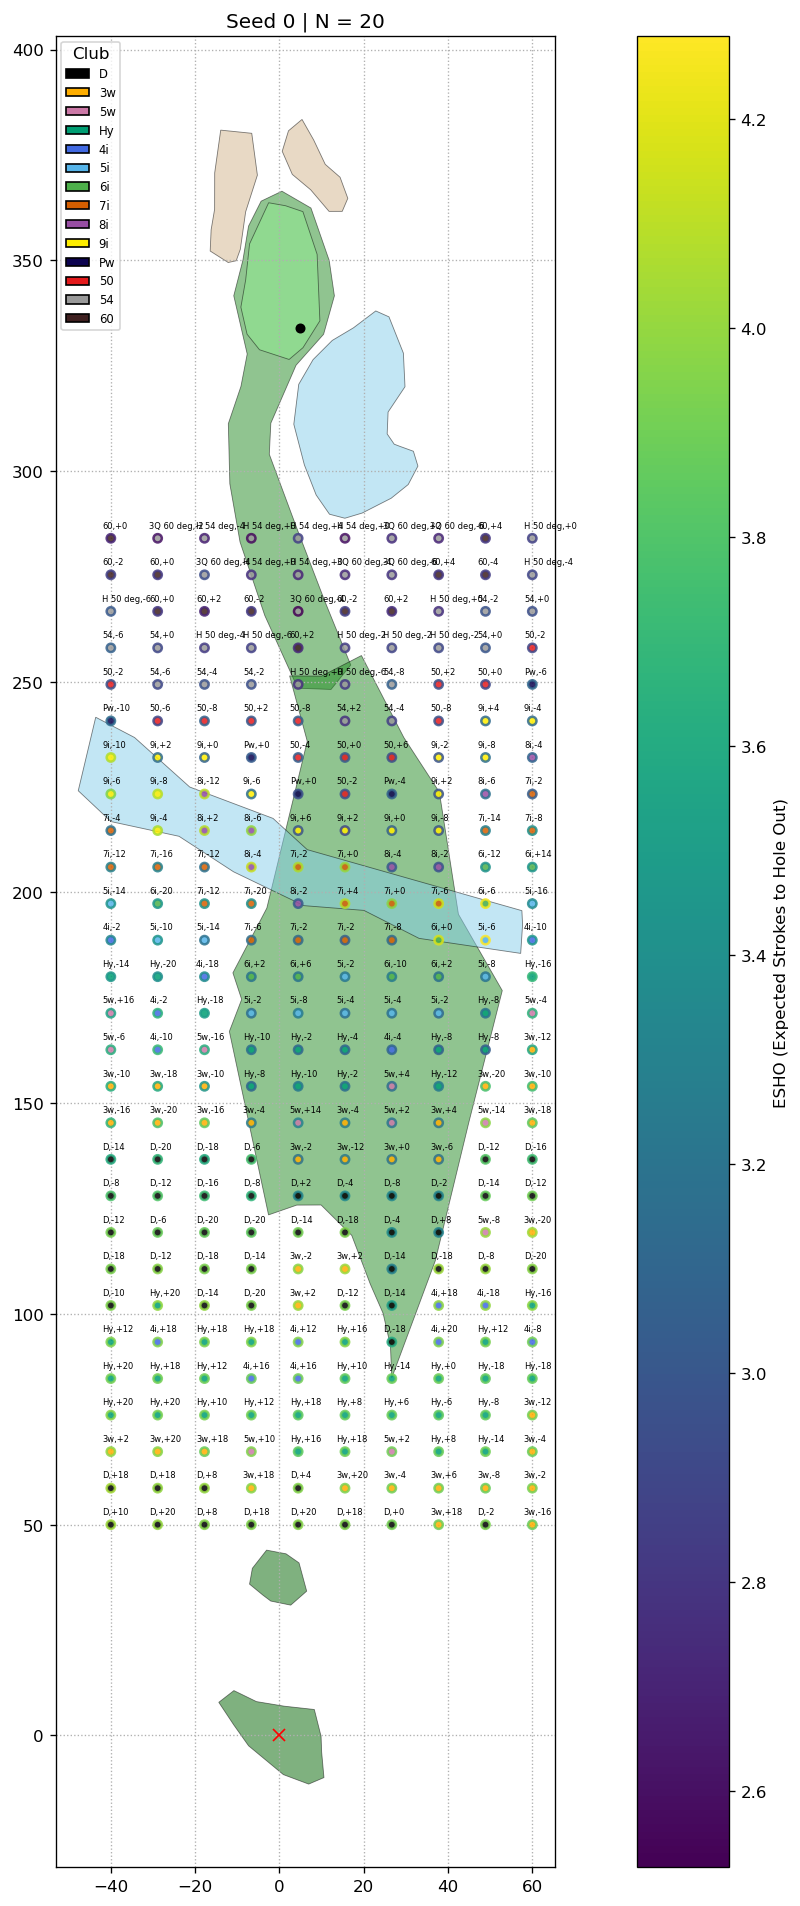
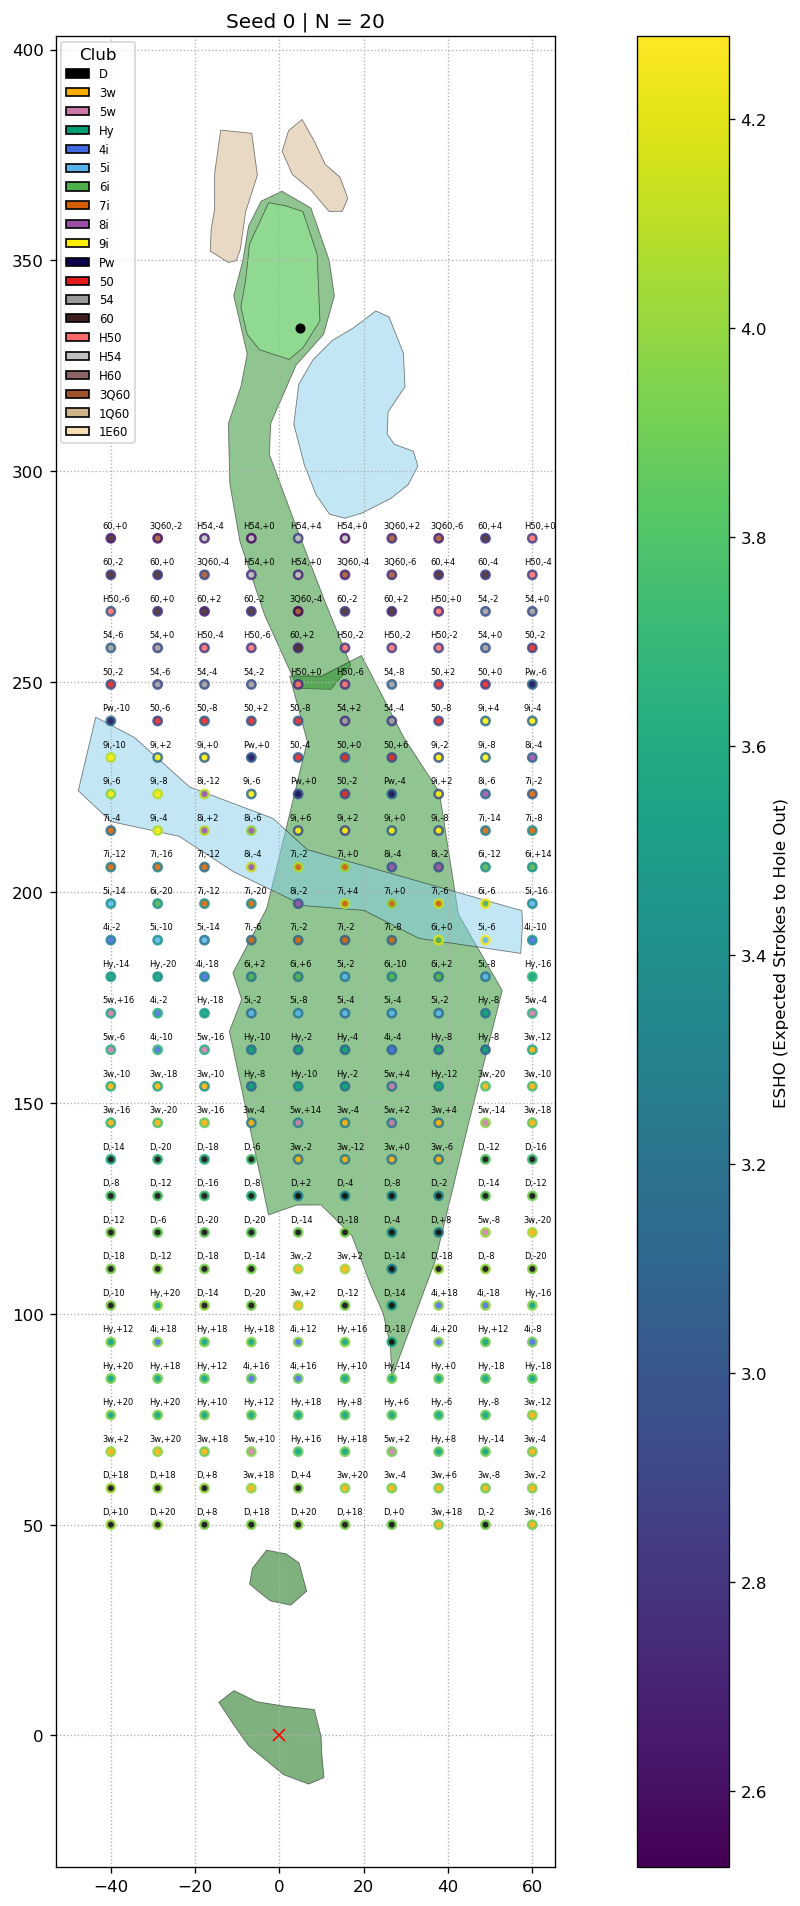
Update REPO_ROOT and environment setup for Slurm

diff --git a/Parallelisation/convergence/core.py b/Parallelisation/convergence/core.py
@@ -546,20 +546,30 @@ def simulate_approach_shots(
 # ---------------------------------------------------------------------------
 
 CLUB_STYLES: dict[str, dict] = {
-    "Driver":  {"short": "D",   "color": "#000000"},
-    "3-wood":  {"short": "3w",  "color": "#FFAE00"},
-    "5-wood":  {"short": "5w",  "color": "#CC79A7"},
-    "Hybrid":  {"short": "Hy",  "color": "#009E73"},
-    "4 Iron":  {"short": "4i",  "color": "royalblue"},
-    "5 Iron":  {"short": "5i",  "color": "#56B4E9"},
-    "6 Iron":  {"short": "6i",  "color": "#4DAF4A"},
-    "7 Iron":  {"short": "7i",  "color": "#D55E00"},
-    "8 Iron":  {"short": "8i",  "color": "#984EA3"},
-    "9 Iron":  {"short": "9i",  "color": "#FFEE00"},
-    "PW":      {"short": "Pw",  "color": "#0C034F"},
-    "50 deg":  {"short": "50",  "color": "#E41A1C"},
-    "54 deg":  {"short": "54",  "color": "#999999"},
-    "60 deg":  {"short": "60",  "color": "#3E1F1F"},
+    # Woods / long clubs
+    "Driver":     {"short": "D",    "color": "#000000"},
+    "3-wood":     {"short": "3w",   "color": "#FFAE00"},
+    "5-wood":     {"short": "5w",   "color": "#CC79A7"},
+    "Hybrid":     {"short": "Hy",   "color": "#009E73"},
+    # Irons
+    "4 Iron":     {"short": "4i",   "color": "royalblue"},
+    "5 Iron":     {"short": "5i",   "color": "#56B4E9"},
+    "6 Iron":     {"short": "6i",   "color": "#4DAF4A"},
+    "7 Iron":     {"short": "7i",   "color": "#D55E00"},
+    "8 Iron":     {"short": "8i",   "color": "#984EA3"},
+    "9 Iron":     {"short": "9i",   "color": "#FFEE00"},
+    "PW":         {"short": "Pw",   "color": "#0C034F"},
+    # Wedges — full swings
+    "50 deg":     {"short": "50",   "color": "#E41A1C"},
+    "54 deg":     {"short": "54",   "color": "#999999"},
+    "60 deg":     {"short": "60",   "color": "#3E1F1F"},
+    # Wedges — partial swings (H = half, 3Q = three-quarter, 1Q = one-quarter, 1E = one-eighth)
+    "H 50 deg":   {"short": "H50",  "color": "#FF6B6B"},
+    "H 54 deg":   {"short": "H54",  "color": "#C0C0C0"},
+    "H 60 deg":   {"short": "H60",  "color": "#8B6565"},
+    "3Q 60 deg":  {"short": "3Q60", "color": "#A0522D"},
+    "1Q 60 deg":  {"short": "1Q60", "color": "#D2B48C"},
+    "1E 60 deg":  {"short": "1E60", "color": "#F5DEB3"},
 }
 
 _LIE_COLORS = {
